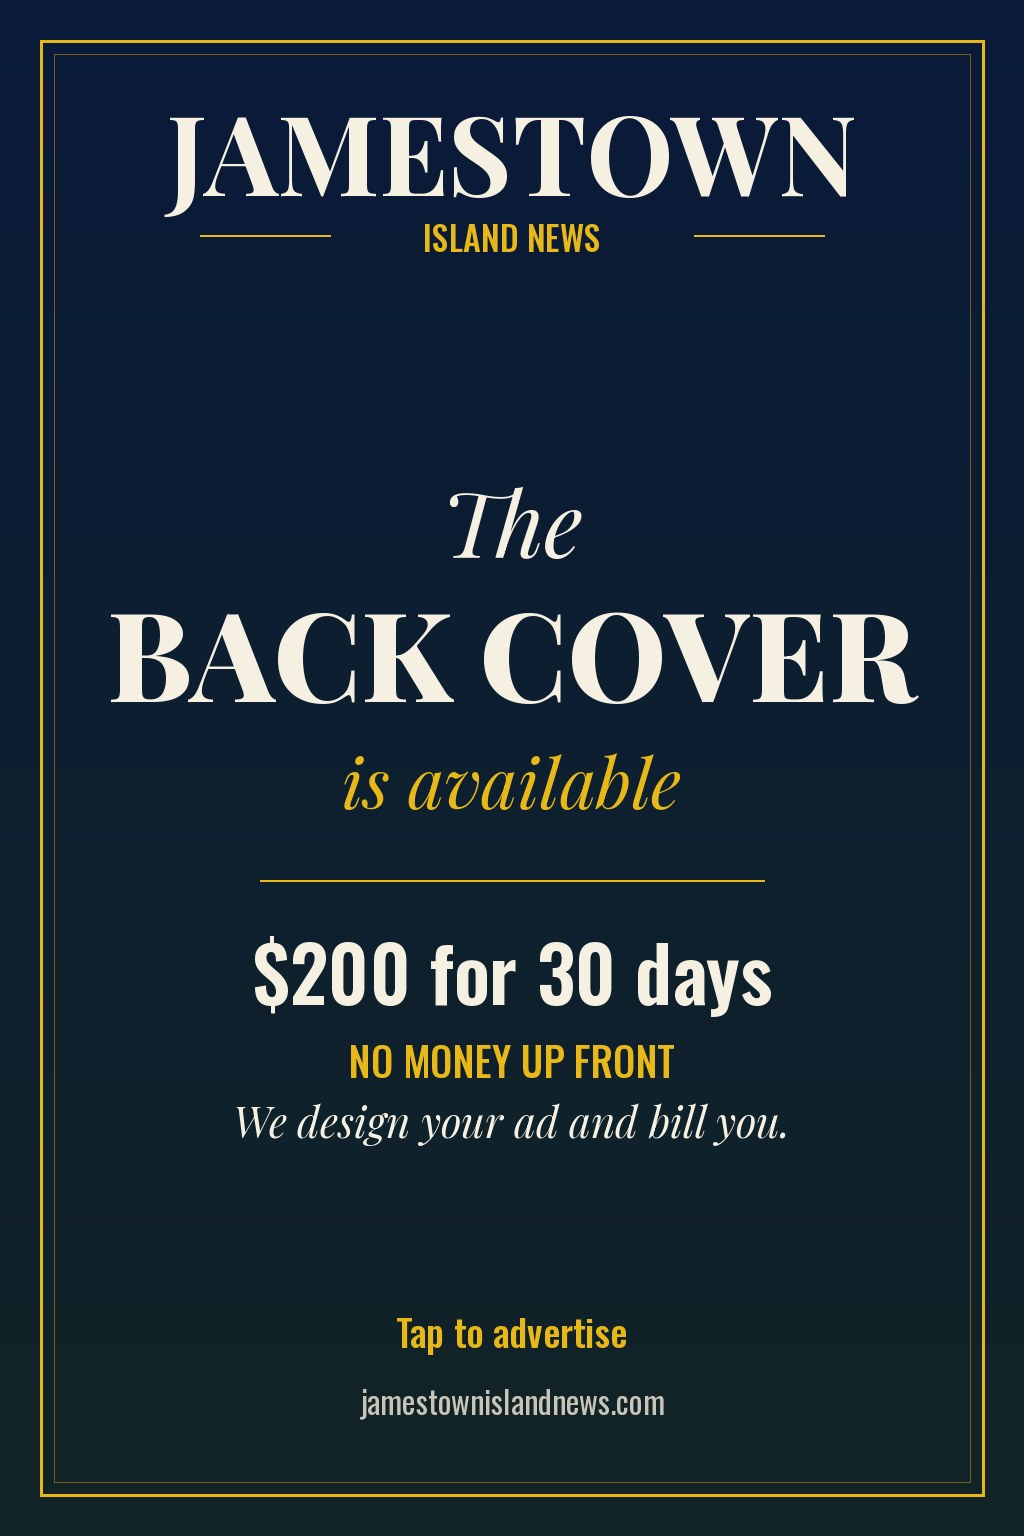
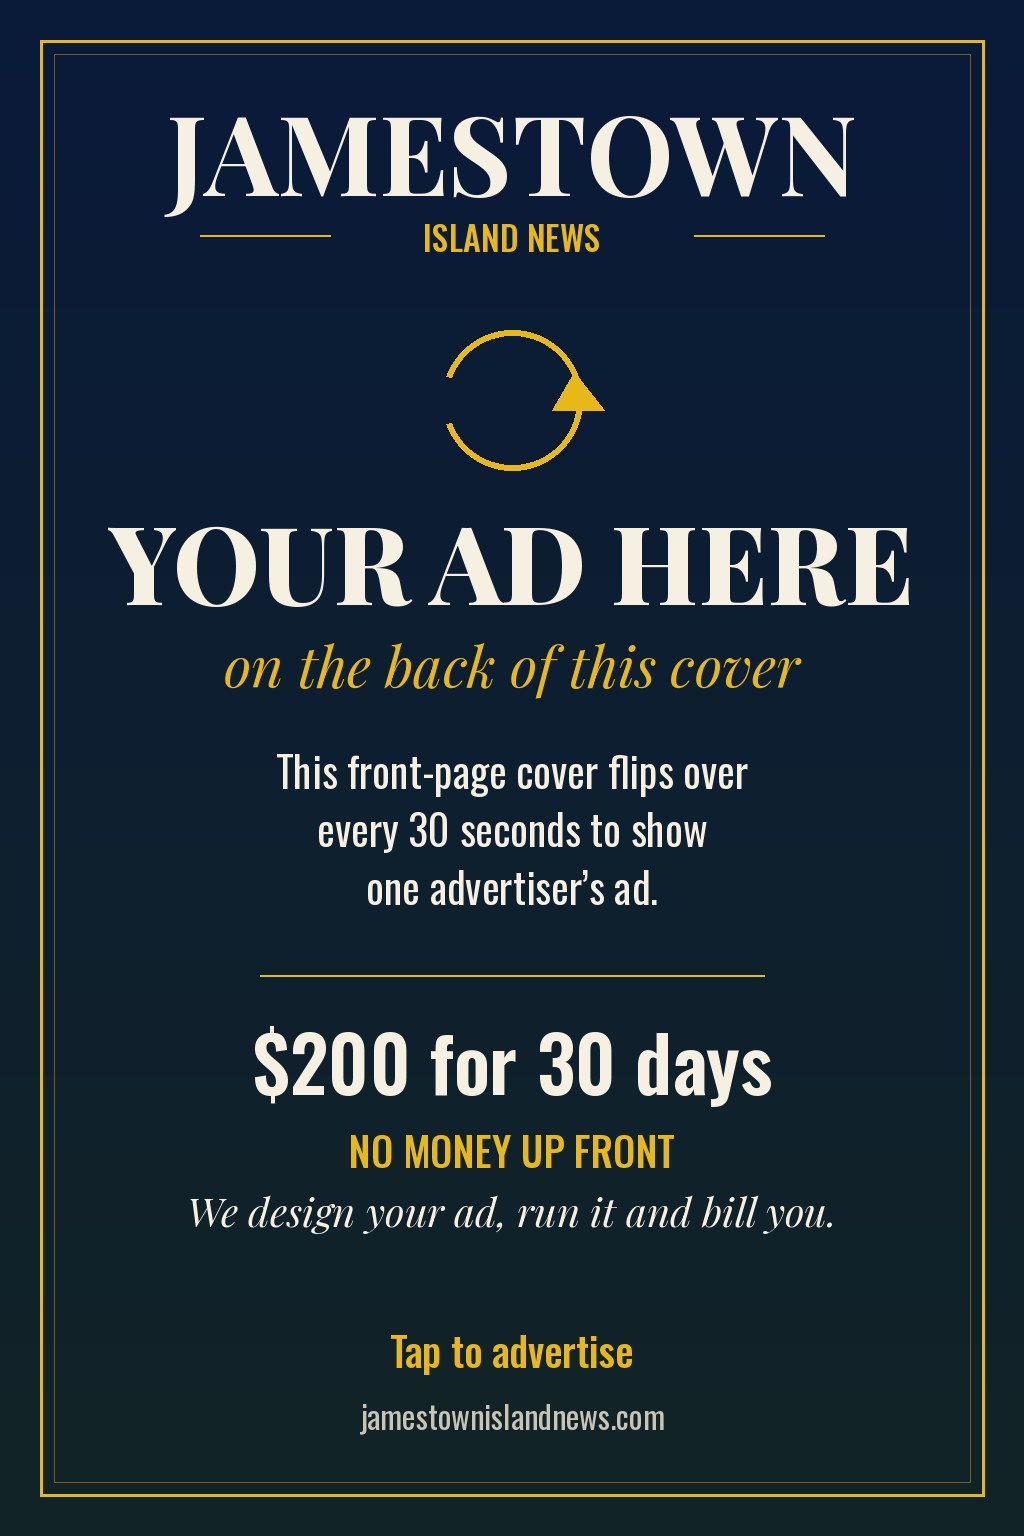
Back cover ad: make clear it's the back of the online cover
Claude-Session: https://claude.ai/code/session_01HzTCsfZS4MqjMgPbRA9Xs3

diff --git a/index.html b/index.html
@@ -1650,7 +1650,7 @@ function vAdvertise(){const ex=[['#19b3a6','Real estate brokers'],['#e8b818','We
   <p style="margin:0"><strong style="color:#e8b818">No money up front.</strong> Just send us your info: name, logo or photo, a line about you and a phone number or website. We design the ad, run it and bill you.</p>
   <div style="display:grid;gap:8px;font:400 14px/1.5 var(--body,system-ui);color:#cfd6dc">
   <div style="padding:10px 12px;border:1px solid #2a3442;border-radius:6px"><b style="color:#fff">Margin box</b> · $30 for 30 days<br>Rectangle, 830 × 474 pixels (about 7 × 4 proportion). Rotates through the side boxes on every page.</div>
-  <div style="padding:10px 12px;border:1px solid #2a3442;border-radius:6px"><b style="color:#fff">Back cover</b> · $200 for 30 days<br>Full page, 1024 × 1536 pixels (2 × 3 portrait). The front-page cover flips to your ad every 30 seconds.</div>
+  <div style="padding:10px 12px;border:1px solid #2a3442;border-radius:6px"><b style="color:#fff">Back of the online cover</b> · $200 for 30 days<br>Full page, 1024 × 1536 pixels (2 × 3 portrait). The cover on our front page flips over every 30 seconds to show your ad.</div>
   <div style="padding:10px 12px;border:1px solid #2a3442;border-radius:6px"><b style="color:#fff">Larger ads</b> · ask us</div></div>
   <div style="display:flex;flex-wrap:wrap;gap:8px">${ex.map(([k,l])=>`<span style="padding:5px 10px;border:1px solid ${k};border-radius:999px;color:${k};font:700 11px/1.2 var(--mono,monospace);letter-spacing:.08em;text-transform:uppercase">${l}</span>`).join('')}</div>
   <div><a class="nb" id="adMail" href="#advertise" style="display:inline-block">Contact Jamestown Island News →</a></div></div></section>`}
@@ -2292,7 +2292,7 @@ setTimeout(cycle,8000);
 const H=/^(the wire · nightlife|the wire|shows this week|tech & ai wire|scene picks|band watch|venue desk)/i;
 const go=()=>{document.querySelectorAll('#view section.box').forEach(s=>{const b=s.querySelector('.bh b');const g=s.querySelector('.vguide');if((b&&H.test(b.textContent.trim()))||g)s.style.display='none'});document.querySelectorAll('#view .front').forEach(f=>{const st=f.querySelector(':scope>.stack');if(st&&![...st.children].some(c=>c.offsetHeight>0)){st.style.display='none';f.style.gridTemplateColumns='minmax(0,1fr)'}})};
 const V=()=>document.getElementById('view');const st=()=>{const v=V();if(!v)return setTimeout(st,200);go();new MutationObserver(go).observe(v,{childList:true,subtree:true})};
-document.readyState==='loading'?document.addEventListener('DOMContentLoaded',st):st()})();</script><script id="backCover">(()=>{const BK='img/back-cover-ad.jpg';new Image().src=BK;
+document.readyState==='loading'?document.addEventListener('DOMContentLoaded',st):st()})();</script><script id="backCover">(()=>{const BK='img/back-cover-ad.jpg?v=2';new Image().src=BK;
 const st=document.createElement('style');st.textContent='.cvr .cimg .cback{position:absolute;inset:0;display:none;z-index:6;cursor:pointer;background:#0b1a38}.cvr .cimg .cback img{display:block;width:100%;height:100%;object-fit:cover;animation:none!important;transform:none!important}.cvr .cimg.back .cback{display:block}';document.head.appendChild(st);
 const vidOn=()=>{const v=document.getElementById('irBox');return v&&getComputedStyle(v).display!=='none'&&getComputedStyle(v).opacity!=='0'};
 let busy=false;
